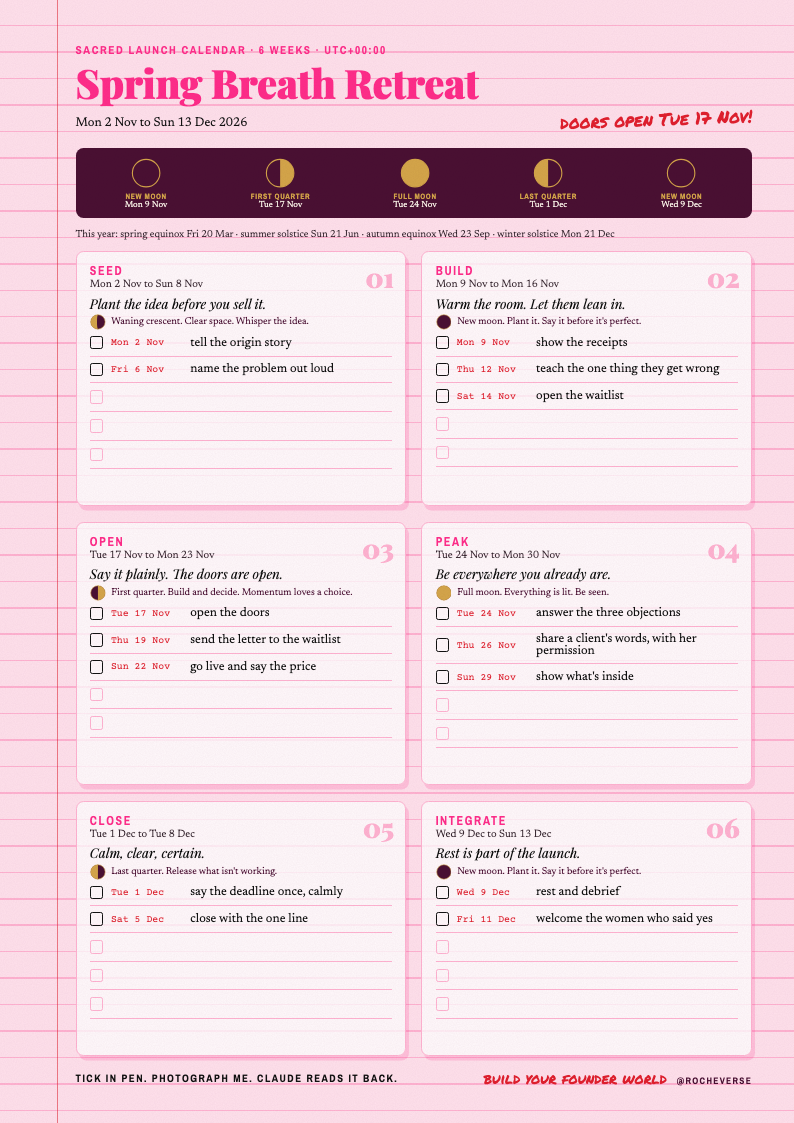
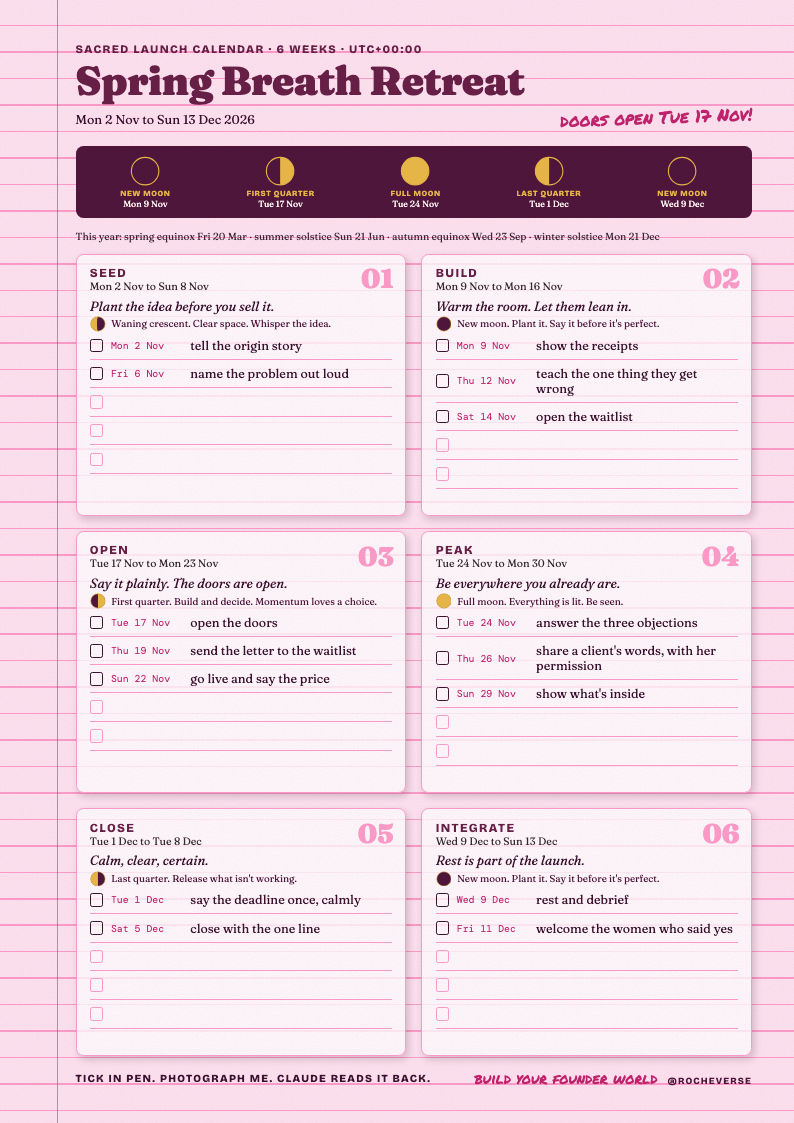
analog-bag: re-skin to the current Rocheverse (v2 tokens)
palette.hero is now the ground. Launch and week pages on blush with ink type,
Fraunces 900 wine headings, Bricolage Grotesque labels, DM Mono dates, hand
lines in ink and scrawls in magenta; moon strips stay plum and gold. Tape strips
removed. Hero on a plum ground with a cream wordmark and candy scrawl, fan
widened so every card reads. Retired font fallbacks replaced; STYLE.md, README
and tests updated; folds in the bundled v2 style files.

Changed region(s): [[0.0907, 0.0312, 0.9673, 0.9038], [0.0907, 0.935, 0.5441, 0.9662], [0.5743, 0.935, 0.937, 0.9662]]

diff --git a/core/style.py b/core/style.py
@@ -22,15 +22,17 @@ HEX_RE = re.compile(r"^#[0-9A-Fa-f]{6}$")
 FONT_RE = re.compile(r"^[A-Za-z0-9 ]{1,60}$")
 
 FALLBACK_STACKS = {
-    "masthead": "'Didot','Bodoni 72',Georgia,'Times New Roman',serif",
+    "masthead": "Georgia,'Times New Roman',serif",
     "label": "'Arial Narrow','Helvetica Neue',Arial,sans-serif",
     "body": "Georgia,'Times New Roman',serif",
     "scrawl": "'Marker Felt','Chalkboard SE','Comic Sans MS',cursive",
+    "script": "'Snell Roundhand','Apple Chancery',cursive",
     "mono": "'Courier New',monospace",
 }
-# css variable <- palette key
-PALETTE_VARS = {"hot": "hero", "candy": "accent", "paper": "paper_pink", "cream": "paper",
-                "ink": "ink", "red": "marker", "plum": "plum", "gold": "gold", "blue": "cool"}
+# css variable <- palette key. "hero" is the GROUND colour (v2), not an accent.
+PALETTE_VARS = {"ground": "hero", "wine": "wine", "candy": "accent", "paper": "paper_pink",
+                "cream": "paper", "ink": "ink", "magenta": "marker", "plum": "plum", "gold": "gold",
+                "cool": "cool"}
 
 IDENTITY_KEYS = ("name", "owner", "handle", "site", "notes")
 
@@ -126,7 +128,7 @@ def fonts_link(style: dict) -> str:
         fam = quote_plus(name)
         links.append(f'<link href="https://fonts.googleapis.com/css2?family={fam}&display=swap" rel="stylesheet">')
         if role in ("masthead", "body", "label"):  # extra weights; a 400 reply is harmless
-            links.append(f'<link href="https://fonts.googleapis.com/css2?family={fam}:ital,wght@0,700;1,400'
+            links.append(f'<link href="https://fonts.googleapis.com/css2?family={fam}:ital,wght@0,700;0,800;1,400'
                          f'&display=swap" rel="stylesheet">')
         if role == "masthead":
             links.append(f'<link href="https://fonts.googleapis.com/css2?family={fam}:wght@900'
@@ -136,25 +138,26 @@ def fonts_link(style: dict) -> str:
 
 def root_css(style: dict) -> str:
     pal, f = style["palette"], style["fonts"]
-    colours = " ".join(f"--{var}:{pal[key]};" for var, key in PALETTE_VARS.items())
+    colours = " ".join(f"--{var}:{pal[key]};" for var, key in PALETTE_VARS.items() if key in pal)
 
     def stack(role: str) -> str:
-        return f"'{f[role]}',{FALLBACK_STACKS[role]}"
+        return f"'{f[role]}',{FALLBACK_STACKS[role]}" if f.get(role) else FALLBACK_STACKS[role]
 
     return (":root{" + colours + " --white:#FFFFFF;"
             f" --didone:{stack('masthead')}; --tag:{stack('label')}; --body:{stack('body')};"
-            f" --marker:{stack('scrawl')}; --mono:{stack('mono')};}}" + BASE_CSS)
+            f" --marker:{stack('scrawl')}; --script:{stack('script')}; --mono:{stack('mono')};}}" + BASE_CSS)
 
 
 BASE_CSS = """
 *{box-sizing:border-box;margin:0;padding:0}
 html,body{background:var(--cream);color:var(--ink);font-family:var(--body);
   -webkit-print-color-adjust:exact;print-color-adjust:exact}
-.tag{font-family:var(--tag);text-transform:uppercase;letter-spacing:.14em;font-weight:700}
+.tag{font-family:var(--tag);text-transform:uppercase;letter-spacing:.12em;font-weight:800}
 .didone{font-family:var(--didone)}
-.marker{font-family:var(--marker);color:var(--red)}
+.marker{font-family:var(--marker);color:var(--magenta)}
+.hand{font-family:var(--marker);color:var(--ink)}
 .lined{background-color:var(--paper);
-  background-image:linear-gradient(90deg,transparent 15mm,color-mix(in srgb,var(--red) 55%,transparent) 15mm,color-mix(in srgb,var(--red) 55%,transparent) 15.4mm,transparent 15.4mm),
+  background-image:linear-gradient(90deg,transparent 15mm,color-mix(in srgb,var(--magenta) 55%,transparent) 15mm,color-mix(in srgb,var(--magenta) 55%,transparent) 15.4mm,transparent 15.4mm),
   repeating-linear-gradient(180deg,transparent 0,transparent 6.6mm,var(--candy) 6.6mm,var(--candy) 7mm);}
 .grain{position:relative}
 .grain::after{content:"";position:absolute;inset:0;pointer-events:none;opacity:.22;mix-blend-mode:multiply;

diff --git a/scripts/make_examples.py b/scripts/make_examples.py
@@ -89,35 +89,31 @@ def hero_page() -> str:
 
 
 HERO_CSS = """
-html,body{width:1600px;height:900px;overflow:hidden;background:var(--hot)}
-.desk{position:relative;width:1600px;height:900px;background:var(--hot);overflow:hidden}
-.desk::before{content:"";position:absolute;inset:0;background:radial-gradient(circle at 25% 15%,rgba(255,255,255,.22),transparent 55%)}
-.label{position:absolute;left:84px;top:70px;color:var(--white);font-family:var(--tag);font-weight:700;font-size:22px;letter-spacing:.24em}
-.word{position:absolute;left:78px;top:104px;color:var(--white);font-family:var(--didone);font-weight:900;font-size:116px;line-height:.88;letter-spacing:-.02em}
-.scrawl{position:absolute;left:84px;top:326px;font-family:var(--marker);color:var(--red);font-size:28px;transform:rotate(-4deg);
-  background:var(--paper);padding:2px 18px;box-shadow:4px 6px 0 rgba(74,16,51,.25)}
+html,body{width:1600px;height:900px;overflow:hidden;background:var(--ground)}
+.desk{position:relative;width:1600px;height:900px;background:var(--ground);overflow:hidden}
+.desk::before{content:"";position:absolute;inset:0;background:radial-gradient(ellipse at 60% 45%,var(--wine),transparent 70%);opacity:.75}
+.label{position:absolute;left:84px;top:70px;color:var(--gold);font-family:var(--tag);font-weight:700;font-size:22px;letter-spacing:.24em}
+.word{position:absolute;left:78px;top:104px;color:var(--cream);font-family:var(--didone);font-weight:900;font-size:116px;line-height:.88;letter-spacing:-.02em}
+.scrawl{position:absolute;left:88px;top:306px;font-family:var(--marker);color:var(--candy);font-size:28px;transform:rotate(-4deg)}
 .fan{position:absolute;left:790px;top:500px;width:0;height:0}
 .slot{position:absolute;left:0;top:0;transform-origin:50% 100%}
-.slot .card{position:relative;transform:translate(-50%,-50%) scale(1.04);transform-origin:50% 50%;box-shadow:3mm 4mm 6mm rgba(74,16,51,.45)}
-.slot.back{transform:translate(215px,-95px) rotate(24deg)}
-.slot.left{transform:translate(-160px,30px) rotate(-12deg)}
-.slot.right{transform:translate(160px,30px) rotate(12deg)}
+.slot .card{position:relative;transform:translate(-50%,-50%) scale(1.04);transform-origin:50% 50%;box-shadow:3mm 5mm 8mm rgba(12,2,8,.55)}
+.slot.back{transform:translate(240px,-95px) rotate(24deg)}
+.slot.left{transform:translate(-190px,34px) rotate(-12deg)}
+.slot.right{transform:translate(190px,34px) rotate(12deg)}
 .slot.mid{transform:translate(0,-14px)}
-.shot{position:absolute;box-shadow:14px 20px 32px rgba(74,16,51,.45);background:#fff}
+.shot{position:absolute;box-shadow:14px 22px 36px rgba(12,2,8,.55);background:#fff}
 .week{left:1328px;top:300px;width:236px;transform:rotate(4deg)}
 .launch{left:66px;top:640px;width:450px;transform:rotate(-3deg)}
-.tape{position:absolute;width:118px;height:32px;background:rgba(255,225,236,.88)}
 """
 
 HERO_BODY = """<div class='desk grain'>
 <img class='shot launch' src='{launch}' alt=''>
-<div class='tape' style='left:232px;top:622px;transform:rotate(-6deg)'></div>
 <div class='label'>ROCHA CODED</div>
 <div class='word'>ANALOG<br>BAG</div>
 <div class='scrawl'>{scrawl}</div>
 <div class='fan'>{fan}</div>
 <img class='shot week' src='{week}' alt=''>
-<div class='tape' style='left:1390px;top:284px;transform:rotate(7deg)'></div>
 </div>"""
 
 if __name__ == "__main__":

diff --git a/week/week.py b/week/week.py
@@ -32,22 +32,21 @@ body{background:#fff}
 .cutline{width:0;border-left:.3mm dashed #b9a3ad}
 .week{width:148mm;height:210mm;padding:9mm 9mm 7mm 19mm;display:flex;flex-direction:column;overflow:hidden;flex:none}
 .top{display:flex;justify-content:space-between;align-items:flex-end}
-.kicker{color:var(--hot);font-size:7pt}
-h1{font-family:var(--didone);font-weight:900;color:var(--hot);font-size:31pt;line-height:.95;letter-spacing:-.01em}
+.kicker{color:var(--wine);font-size:7pt}
+h1{font-family:var(--didone);font-weight:900;color:var(--wine);font-size:31pt;line-height:.95;letter-spacing:-.01em}
 .range{font-size:8.6pt;text-align:right}
-.range .marker{font-size:8.4pt;display:block;white-space:nowrap;transform:rotate(-3deg);margin-bottom:1mm}
+.range .todo{font-size:8.4pt;display:block;white-space:nowrap;transform:rotate(-3deg);margin-bottom:1mm}
 .moons{display:grid;grid-template-columns:repeat(7,1fr);gap:1mm;margin:3.5mm 0 3mm;padding:2mm 1.5mm;background:var(--plum);border-radius:1.6mm}
 .day{display:flex;flex-direction:column;align-items:center;color:var(--cream);font-size:6.4pt;gap:.6mm}
 .day .tag{color:var(--gold);font-size:5.6pt}
 .day .ph{color:var(--candy);font-size:5pt;height:2.2mm;text-transform:uppercase;letter-spacing:.06em}
-.label{color:var(--hot);font-size:8pt;margin-bottom:1mm}
+.label{color:var(--wine);font-size:8pt;margin-bottom:1mm}
 .one{position:relative;background:#fff;border:.35mm solid var(--candy);border-radius:1.6mm;padding:4mm 4mm 3mm;min-height:31mm;
-  box-shadow:.8mm 1.2mm 0 rgba(255,45,138,.2);margin:2mm 0 4mm}
-.one::before{content:"";position:absolute;top:-2.6mm;left:50%;width:22mm;height:5mm;margin-left:-11mm;background:rgba(255,179,209,.85);transform:rotate(-3deg)}
+  box-shadow:.6mm 1mm 2mm rgba(30,6,20,.18);margin:2mm 0 4mm}
 .one .line{border-bottom:.3mm solid var(--candy);height:7.2mm}
 .write{font-family:var(--marker);color:var(--ink);font-size:12pt;line-height:7.2mm}
 .move{display:flex;align-items:center;gap:2.4mm;border-bottom:.3mm solid var(--candy);height:8.2mm}
-.move .n{font-family:var(--didone);font-weight:900;color:var(--hot);font-size:11pt;width:5mm;flex:none;text-align:left;line-height:1}
+.move .n{font-family:var(--didone);font-weight:900;color:var(--wine);font-size:11pt;width:5mm;flex:none;text-align:left;line-height:1}
 .number{display:grid;grid-template-columns:1.6fr 1fr 1fr;gap:2mm;margin:1mm 0 4mm}
 .cell{background:rgba(255,255,255,.75);border:.3mm solid var(--candy);border-radius:1.2mm;padding:1.2mm 2mm;height:13mm}
 .cell .tag{font-size:5.8pt;color:var(--plum)}
@@ -93,7 +92,7 @@ def sheet(start: date, days: list[dict], hemi: str, fill: dict) -> str:
         f"<div class='move'><span class='n'>{i}</span><span class='box'></span>{written(moves[i - 1] if i <= len(moves) else '')}</div>"
         for i in range(1, 4))
     num = fill.get("number")
-    todo = f"<span class='marker'>{esc(S.line('todo'))}</span>" if S.line("todo") else ""
+    todo = f"<span class='hand todo'>{esc(S.line('todo'))}</span>" if S.line("todo") else ""
     who = S.current().get("handle", "")
     return (f"<section class='week lined grain'>"
             f"<div class='top'><div><div class='kicker tag'>Pocket week</div><h1>THIS<br>WEEK</h1></div>"

diff --git a/launch/launch.py b/launch/launch.py
@@ -156,25 +156,25 @@ CSS = """
 @page{size:A4;margin:0}
 body{background:var(--cream)}
 .sheet{width:210mm;height:297mm;padding:11mm 11mm 9mm 20mm;display:flex;flex-direction:column;overflow:hidden}
-.kicker{color:var(--hot);font-size:8.5pt}
-h1{font-family:var(--didone);font-weight:900;color:var(--hot);font-size:30pt;line-height:1;margin:1.5mm 0 1mm;letter-spacing:-.01em}
+.kicker{color:var(--wine);font-size:8.5pt}
+h1{font-family:var(--didone);font-weight:900;color:var(--wine);font-size:30pt;line-height:1;margin:1.5mm 0 1mm;letter-spacing:-.01em}
 .sub{display:flex;justify-content:space-between;align-items:baseline;font-size:9.5pt}
-.scrawl{font-family:var(--marker);color:var(--red);font-size:13pt;transform:rotate(-2deg);display:inline-block}
+.scrawl{font-family:var(--marker);color:var(--magenta);font-size:13pt;transform:rotate(-2deg);display:inline-block}
 .strip{display:flex;justify-content:space-around;gap:2.4mm;flex-wrap:wrap;margin:4mm 0 2mm;padding:2.5mm 3mm;background:var(--plum);border-radius:2mm}
 .ph{display:flex;flex-direction:column;align-items:center;color:var(--cream);font-size:6.6pt;min-width:12mm}
 .ph .tag{color:var(--gold);font-size:5.8pt;margin-top:.8mm;letter-spacing:.08em}
 .seasons{font-size:7.6pt;margin:1mm 0 3mm;color:#3a2a33}
-.seasons b{color:var(--hot)}
+.seasons b{color:var(--wine)}
 .grid{display:grid;grid-template-columns:1fr 1fr;gap:4mm;flex:1}
 .stage{background:rgba(255,255,255,.78);border:.35mm solid var(--candy);border-radius:2mm;padding:3mm 3.5mm;position:relative;
-  box-shadow:.8mm 1.2mm 0 rgba(255,45,138,.18)}
+  box-shadow:.6mm 1mm 2mm rgba(30,6,20,.16)}
 .stage .num{position:absolute;right:3mm;top:2mm;font-family:var(--didone);font-size:20pt;color:var(--candy);font-weight:900}
-.stage .tag{color:var(--hot);font-size:9pt}
+.stage .tag{color:var(--wine);font-size:9pt}
 .stage .dates{font-size:8pt;color:#3a2a33}
 .stage .line{font-family:var(--didone);font-style:italic;font-size:10pt;margin:1.2mm 0 .6mm}
 .stage .note{font-size:7.4pt;color:var(--plum);display:flex;gap:1.5mm;align-items:center}
 .beat{display:flex;gap:2mm;align-items:center;font-size:9.4pt;padding:1.6mm 0;border-bottom:.3mm solid var(--candy)}
-.beat .d{font-family:var(--mono);font-size:7.4pt;color:var(--red);min-width:19mm;white-space:nowrap}
+.beat .d{font-family:var(--mono);font-size:7.4pt;color:var(--magenta);min-width:19mm;white-space:nowrap}
 .beat.pen{height:7.6mm}
 .beat.pen .box{border-color:var(--candy)}
 .foot{margin-top:3mm;display:flex;justify-content:space-between;align-items:center;font-size:8pt}

diff --git a/tests/test_style.py b/tests/test_style.py
@@ -29,7 +29,7 @@ class StyleTests(unittest.TestCase):
         S.use(str(S.BUNDLED))
         rocha = self.week_html()
         self.assertIn("TO DO: BUILD YOUR FOUNDER WORLD", rocha)
-        self.assertIn("--hot:#FF2D8A", rocha)
+        self.assertIn("--ground:#50163C", rocha)
         with tempfile.TemporaryDirectory() as d:
             path = Path(d, "style.json")
             path.write_text(json.dumps(SECOND))
@@ -37,11 +37,11 @@ class StyleTests(unittest.TestCase):
             theirs = self.week_html()
         self.assertIn("TO DO: SWIM BEFORE EMAIL", theirs)
         self.assertNotIn("BUILD YOUR FOUNDER WORLD", theirs)
-        self.assertIn("--hot:#1F6F8B", theirs)
-        self.assertNotIn("#FF2D8A", theirs)
+        self.assertIn("--ground:#1F6F8B", theirs)
+        self.assertNotIn("--ground:#50163C", theirs)
         self.assertIn("'Cormorant Garamond'", theirs)
         self.assertIn("@seasaltstudio", theirs)
-        self.assertIn("--plum:#4A1033", theirs)  # keys left out fall back to the example
+        self.assertIn("--plum:#50163C", theirs)  # keys left out fall back to the example
 
     def test_fallback_order_and_bad_values(self):
         with tempfile.TemporaryDirectory() as d:
@@ -56,8 +56,8 @@ class StyleTests(unittest.TestCase):
                 st = S.use()
             finally:
                 os.chdir(old)
-        self.assertEqual(st["palette"]["hero"], "#FF2D8A")  # unsafe colour refused
-        self.assertEqual(st["fonts"]["body"], "Newsreader")  # unsafe font name refused
+        self.assertEqual(st["palette"]["hero"], "#50163C")  # unsafe colour refused
+        self.assertEqual(st["fonts"]["body"], "Fraunces")  # unsafe font name refused
         self.assertEqual(st["lines"]["todo"], "")  # her words never fall back
 
     def test_user_style_never_inherits_her_words(self):
@@ -72,7 +72,7 @@ class StyleTests(unittest.TestCase):
             st = S.use(str(path))
             week = self.week_html()
             card_back = tp.back("tarot", 0, 0)
-        self.assertEqual(st["palette"]["plum"], "#4A1033")    # palette may fall back
+        self.assertEqual(st["palette"]["plum"], "#50163C")    # palette may fall back
         self.assertEqual(st["fonts"]["scrawl"], "Permanent Marker")  # fonts may fall back
         self.assertTrue(all(v == "" for v in st["lines"].values()))
         for k in ("name", "owner", "handle", "site", "notes"):

diff --git a/tarot/print.py b/tarot/print.py
@@ -61,7 +61,7 @@ body{background:#fff}
 .cut.h{border-top-width:.2mm;height:0}
 .inline{border-color:rgba(246,239,228,.35)}
 .strip{display:flex;gap:9mm;padding:10mm;background:var(--paper);align-items:center;width:max-content}
-.strip .card{position:relative;box-shadow:2mm 3mm 5mm rgba(74,16,51,.35)}
+.strip .card{position:relative;box-shadow:2mm 3mm 5mm rgba(30,6,20,.45)}
 .strip .card:nth-child(odd){transform:rotate(-2deg)}
 .strip .card:nth-child(even){transform:rotate(2deg)}
 """

diff --git a/tarot/glyphs.py b/tarot/glyphs.py
@@ -81,7 +81,7 @@ GLYPHS = {
 }
 
 
-def glyph_svg(name: str, size_mm: float, color: str = "#D4A64A", width: float = 2.2) -> str:
+def glyph_svg(name: str, size_mm: float, color: str = "#E9B949", width: float = 2.2) -> str:
     inner = GLYPHS.get(name, GLYPHS["star"])
     return (f"<svg viewBox='0 0 100 100' width='{size_mm}mm' height='{size_mm}mm' aria-hidden='true'>"
             f"<g fill='none' stroke='{color}' stroke-width='{width}' stroke-linejoin='round' "

diff --git a/STYLE.md b/STYLE.md
@@ -20,20 +20,22 @@ Start from `style.example.json`. If you leave a colour or a font blank, the exam
 | `owner` | Your name | not yet |
 | `handle` | Your Instagram or social handle | card backs, launch page, week page |
 | `site` | Your website | not yet |
-| `palette.hero` | Your loudest colour | mastheads, labels |
-| `palette.accent` | The soft version of it | page lines, card names |
+| `palette.hero` | Your ground: the deep colour everything sits on | the README hero image |
+| `palette.accent` | Your one accent | page lines, card names, the card-back stamp |
 | `palette.paper` | Plain paper | page backgrounds |
 | `palette.paper_pink` | Tinted paper | lined paper |
 | `palette.ink` | Text | text, tick boxes |
-| `palette.marker` | Your pen colour | scrawls, the margin line |
+| `palette.marker` | Your pen colour on paper | scrawls, the margin line |
 | `palette.plum` | A deep dark | card fronts and backs, moon strips |
+| `palette.wine` | A second deep colour, for headings on paper | page headings, labels, THIS WEEK |
 | `palette.gold` | A metallic or bright line colour | card art, moons |
 | `palette.cool` | A rare cool accent | not yet |
 | `fonts.masthead` | Big headlines | card names, THIS WEEK, the offer name |
 | `fonts.label` | Small caps labels | tags |
 | `fonts.body` | Reading text | card text, beats |
-| `fonts.scrawl` | Handwriting | the to-do line, card-back stamp |
-| `fonts.mono` | Typewriter | dates on the launch page |
+| `fonts.scrawl` | Handwriting | the to-do line, scrawls, card-back stamp |
+| `fonts.script` | A signature script | not yet |
+| `fonts.mono` | Typewriter or mono | dates on the launch page |
 | `motif` | `guest-check`, `front-page`, `magazine-scrawl`, `pink-paper`, `sticker-collage`, `rotary`, `leopard`, `retro-tv` or `neutral` | not yet |
 | `lines.todo` | Your to-do line | top of the week page |
 | `lines.stamp` | One big word | card backs |

diff --git a/README.md b/README.md
@@ -9,7 +9,7 @@ Pull three cards for your next post.
 Lay your launch on the real moon.
 Photograph the page when you're done, and Claude reads it back into your tasks.
 
-<p align="center"><img src="docs/img/hero.png" width="760" alt="Three printables on a hot pink desk: a pink lined launch calendar with a plum moon strip, four plum and gold Hook Tarot cards, and an A5 page that says THIS WEEK."></p>
+<p align="center"><img src="docs/img/hero.png" width="760" alt="On a plum desk: the ANALOG BAG wordmark, three plum and gold Hook Tarot cards fanned with a LORE card back behind, a blush A5 page that says THIS WEEK, and the top of a blush launch calendar with its moon strip."></p>
 
 <p align="center"><sub>Every example is written for Wren, a made-up breathwork teacher. Her numbers are invented to show the shape.</sub></p>
 
